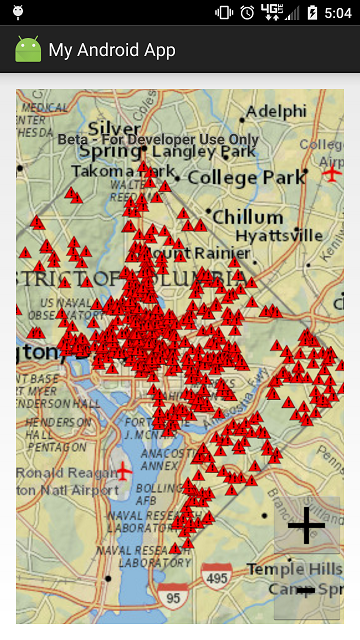
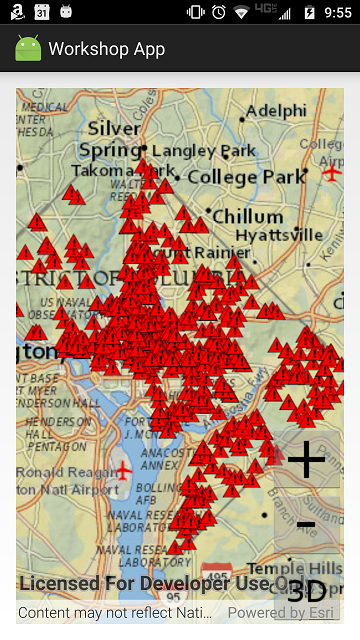
Added 3D to Android Exercise 3

diff --git a/runtime-workshop/solutions/Android/Ex3_LocFeatLyr/app/src/main/java/com/esri/wdc/geodev/MainActivity.java b/runtime-workshop/solutions/Android/Ex3_LocFeatLyr/app/src/main/java/com/esri/wdc/geodev/MainActivity.java
@@ -4,15 +4,33 @@ import android.app.Activity;
 import android.os.Bundle;
 import android.os.Environment;
 import android.view.View;
+import android.view.ViewGroup;
+import android.widget.ImageButton;
+import android.widget.LinearLayout;
 
+import com.esri.arcgisruntime.geometry.Geometry;
+import com.esri.arcgisruntime.geometry.Point;
+import com.esri.arcgisruntime.layers.Layer;
 import com.esri.arcgisruntime.mapping.ArcGISMap;
+import com.esri.arcgisruntime.mapping.ArcGISScene;
+import com.esri.arcgisruntime.mapping.ArcGISTiledElevationSource;
 import com.esri.arcgisruntime.mapping.Basemap;
 import com.esri.arcgisruntime.mapping.MobileMapPackage;
+import com.esri.arcgisruntime.mapping.Viewpoint;
+import com.esri.arcgisruntime.mapping.view.Camera;
 import com.esri.arcgisruntime.mapping.view.MapView;
+import com.esri.arcgisruntime.mapping.view.SceneView;
 
+import java.util.ArrayList;
 import java.util.List;
+import java.util.logging.Level;
+import java.util.logging.Logger;
 
 public class MainActivity extends Activity {
+
+    // Exercise 1: Specify elevation service URL
+    private static final String ELEVATION_IMAGE_SERVICE =
+            "http://elevation3d.arcgis.com/arcgis/rest/services/WorldElevation3D/Terrain3D/ImageServer";
 
     // Exercise 3: Instantiate mobile map package (MMPK) path
     private static final String MMPK_PATH = Environment.getExternalStorageDirectory().getPath() + "/data/DC_Crime_Data.mmpk";
@@ -20,13 +38,17 @@ public class MainActivity extends Activity {
     // Exercise 1: Declare and instantiate fields
     private MapView mapView = null;
     private ArcGISMap map = new ArcGISMap();
+    private SceneView sceneView = null;
+    private ArcGISScene scene = new ArcGISScene();
+    private ImageButton imageButton_toggle2d3d = null;
+    private boolean threeD = false;
 
     @Override
     protected void onCreate(Bundle savedInstanceState) {
         super.onCreate(savedInstanceState);
         setContentView(R.layout.activity_main);
 
-        // Exercise 1: Set up the map
+        // Exercise 1: Set up the 2D map.
         mapView = (MapView) findViewById(R.id.mapView);
         map.setBasemap(Basemap.createNationalGeographic());
         mapView.setMap(map);
@@ -40,11 +62,60 @@ public class MainActivity extends Activity {
                 if (0 < maps.size()) {
                     map = maps.get(0);
                     mapView.setMap(map);
+                    map.addDoneLoadingListener(new Runnable() {
+                        @Override
+                        public void run() {
+                            Viewpoint viewpoint = map.getInitialViewpoint();
+                            if (null != viewpoint) {
+                                mapView.setViewpointAsync(viewpoint);
+                            }
+                        }
+                    });
                 }
                 map.setBasemap(Basemap.createNationalGeographic());
             }
         });
         mmpk.loadAsync();
+
+        // Exercise 1: Set up the 3D scene.
+        sceneView = findViewById(R.id.sceneView);
+        scene.setBasemap(Basemap.createImagery());
+        sceneView.setScene(scene);
+        scene.getBaseSurface().getElevationSources().add(new ArcGISTiledElevationSource(ELEVATION_IMAGE_SERVICE));
+
+        // Exercise 3: Open mobile map package and add its layers to the 3D scene.
+        scene.addDoneLoadingListener(new Runnable() {
+            @Override
+            public void run() {
+                final MobileMapPackage mmpk = new MobileMapPackage(MMPK_PATH);
+                mmpk.addDoneLoadingListener(new Runnable() {
+                    @Override
+                    public void run() {
+                        List<ArcGISMap> maps = mmpk.getMaps();
+                        if (0 < maps.size()) {
+                            final ArcGISMap thisMap = maps.get(0);
+                            thisMap.addDoneLoadingListener(new Runnable() {
+                                @Override
+                                public void run() {
+                                    ArrayList<Layer> layers = new ArrayList<>();
+                                    layers.addAll(thisMap.getOperationalLayers());
+                                    thisMap.getOperationalLayers().clear();
+                                    scene.getOperationalLayers().addAll(layers);
+                                    sceneView.setViewpoint(thisMap.getInitialViewpoint());
+                                    Viewpoint viewpoint = sceneView.getCurrentViewpoint(Viewpoint.Type.CENTER_AND_SCALE);
+                                    Point targetPoint = (Point) viewpoint.getTargetGeometry();
+                                    Camera camera = sceneView.getCurrentViewpointCamera()
+                                            .rotateAround(targetPoint, 45.0, 65.0, 0.0);
+                                    sceneView.setViewpointCameraAsync(camera);
+                                }
+                            });
+                            thisMap.loadAsync();
+                        }
+                    }
+                });
+                mmpk.loadAsync();
+            }
+        });
     }
 
     /**
@@ -53,6 +124,7 @@ public class MainActivity extends Activity {
     @Override
     protected void onResume() {
         mapView.resume();
+        sceneView.resume();
         super.onResume();
     }
 
@@ -62,6 +134,7 @@ public class MainActivity extends Activity {
     @Override
     protected void onPause() {
         mapView.pause();
+        sceneView.pause();
         super.onPause();
     }
 
@@ -71,15 +144,32 @@ public class MainActivity extends Activity {
     @Override
     protected void onDestroy() {
         mapView.dispose();
+        sceneView.dispose();
         super.onDestroy();
     }
 
     /**
-     * Exercise 2: Listener for zoom out button.
-     * @param view The button.
+     * Exercise 1: Toggle between 2D map and 3D scene.
      */
-    public void imageButton_zoomOut_onClick(View view) {
-        zoom(0.5);
+    public void imageButton_toggle2d3d_onClick(View view) {
+        threeD = !threeD;
+        setWeight(mapView, threeD ? 1f : 0f);
+        setWeight(sceneView, threeD ? 0f : 1f);
+        if (null == imageButton_toggle2d3d) {
+            imageButton_toggle2d3d = findViewById(R.id.imageButton_toggle2d3d);
+        }
+        imageButton_toggle2d3d.setImageResource(threeD ? R.drawable.two_d : R.drawable.three_d);
+    }
+
+    /**
+     * Exercise 1: Set the weight of a View, e.g. to show or hide it.
+     */
+    private void setWeight(View view, float weight) {
+        final ViewGroup.LayoutParams params = view.getLayoutParams();
+        if (params instanceof LinearLayout.LayoutParams) {
+            ((LinearLayout.LayoutParams) params).weight = weight;
+        }
+        view.setLayoutParams(params);
     }
 
     /**
@@ -91,11 +181,47 @@ public class MainActivity extends Activity {
     }
 
     /**
+     * Exercise 2: Listener for zoom out button.
+     * @param view The button.
+     */
+    public void imageButton_zoomOut_onClick(View view) {
+        zoom(0.5);
+    }
+
+    /**
+     * Exercise 2: Zoom the 2D map.
+     */
+    private void zoomMap(double factor) {
+        mapView.setViewpointScaleAsync(mapView.getMapScale() / factor);
+    }
+
+    /**
+     * Exercise 2: Zoom the 3D scene.
+     */
+    private void zoomScene(double factor) {
+        Geometry target = sceneView.getCurrentViewpoint(Viewpoint.Type.CENTER_AND_SCALE).getTargetGeometry();
+        if (target instanceof Point) {
+            Camera camera = sceneView.getCurrentViewpointCamera()
+                    .zoomToward((Point) target, factor);
+            sceneView.setViewpointCameraAsync(camera, 0.5f);
+        } else {
+            // This shouldn't happen, but in case it does...
+            Logger.getLogger(MainActivity.class.getName()).log(Level.WARNING,
+                    "SceneView.getCurrentViewpoint returned {0} instead of {1}",
+                    new String[] { target.getClass().getName(), Point.class.getName() });
+        }
+    }
+
+    /**
      * Exercise 2: Zoom by a factor.
      * @param factor The zoom factor (0 to 1 to zoom out, > 1 to zoom in).
      */
     private void zoom(double factor) {
-        mapView.setViewpointScaleAsync(mapView.getMapScale() / factor);
+        if (threeD) {
+            zoomScene(factor);
+        } else {
+            zoomMap(factor);
+        }
     }
 
 }

diff --git a/runtime-workshop/exercises/Android/Exercise 3 Local Feature Layer.md b/runtime-workshop/exercises/Android/Exercise 3 Local Feature Layer.md
@@ -1,11 +1,15 @@
 # Exercise 3: Add a Local Feature Layer (Android)
 
-This exercise walks you through adding a layer from a mobile map package to the map.
+This exercise walks you through the following:
+- Add a layer from a mobile map package to the 2D map
+- Add a layer from a mobile map package to the 3D scene
 
 Prerequisites:
 - Complete [Exercise 2](Exercise%202%20Zoom%20Buttons.md), or get the Exercise 2 code solution compiling and running properly, preferably in an IDE.
 
 If you need some help, you can refer to [the solution to this exercise](../../solutions/Android/Ex3_LocFeatLyr), available in this repository.
+
+## Add a layer from a mobile map package to the 2D map
 
 ArcGIS Runtime provides a variety of ways to add **operational layers** to the map--feature services, dynamic map services, offline geodatabases, and mobile map packages, for example. In this exercise, you will use the newest of these: a mobile map package.
 
@@ -49,11 +53,95 @@ ArcGIS Runtime provides a variety of ways to add **operational layers** to the m
     }
     map.setBasemap(Basemap.createNationalGeographic());
     ```
-    
+
+1. After `mapView.setMap(map)`, add a listener to run when the `Map` is done loading. In that listener, zoom the `MapView` to the `Map`'s initial viewpoint:
+
+    ```
+    map.addDoneLoadingListener(new Runnable() {
+        @Override
+        public void run() {
+            Viewpoint viewpoint = map.getInitialViewpoint();
+            if (null != viewpoint) {
+                mapView.setViewpointAsync(viewpoint);
+            }
+        }
+    });
+    ```
+
 1. Run your app. Verify that the map zooms to Washington, D.C., and that a layer of crime incidents appears on top of the basemap. The incidents appear as red triangles, which is the symbology specified in the mobile map package:
 
     ![Mobile map package layer](05-mmpk-layer.png)
     
+## Add a layer from a mobile map package to the 3D scene
+
+A layer can only reside in one map or scene at a time. Therefore, to add layers to the 3D scene, you will have to open the mobile map package again. That will give you a `Map` as before, which you can't use with a `SceneView`--and there is no "`MobileScenePackage`"--so you will have to get the layers from this `Map` and add them to your existing `Scene`.
+
+1. In `onCreate(Bundle)`, after you get the `SceneView` and instantiate your `ArcGISScene` and set its basemap and surface, add an event handler for when the scene is done loading:
+
+    ```
+    scene.addDoneLoadingListener(new Runnable() {
+        @Override
+        public void run() {
+            
+        }
+    });
+    ```
+
+1. Inside this new event handler, load the mobile map package and listen for it to be done loading, just as you did a few steps ago for the 2D map:
+
+    ```
+    mmpk.addDoneLoadingListener(new Runnable() {
+        @Override
+        public void run() {
+            
+        }
+    });
+    mmpk.loadAsync();
+    ```
+
+1. Get the first `Map` in the `MobileMapPackage`, as you did before for the 2D map. However, you cannot add a `Map` to a `SceneView`, so you will instead add the `Map`'s layers to the `Scene`'s operational layers. But a layer can only belong to one `Map` or `Scene` at a time, so you must load the map, make a list of the layers, clear the `Map`'s layer list (bonus: see what happens if you don't!), and only then add the list of layers to the scene. Here is the code for adding the MMPK's layers to your `Scene`. Put this code in the done loading listener you created in the previous step:
+
+    ```
+    List<ArcGISMap> maps = mmpk.getMaps();
+    if (0 < maps.size()) {
+        final ArcGISMap thisMap = maps.get(0);
+        thisMap.addDoneLoadingListener(new Runnable() {
+            @Override
+            public void run() {
+                ArrayList<Layer> layers = new ArrayList<>();
+                layers.addAll(thisMap.getOperationalLayers());
+                thisMap.getOperationalLayers().clear();
+                scene.getOperationalLayers().addAll(layers);
+            }
+        });
+        thisMap.loadAsync();
+    }
+    ```
+
+1. After adding the layers to the scene (inside the `run()` method from the previous step), zoom to the layer you added by giving your `SceneView` the MMPK map's `Viewpoint`:
+
+    ```
+    sceneView.setViewpoint(thisMap.getInitialViewpoint());
+    ```
+    
+1. Compile and run your app. Verify that when you switch to 3D, the scene displays Washington, D.C., with the red triangles representing crime incidents:
+
+    ![Mobile map package layer on a 3D scene](06-mmpk-layer-scene.jpg)
+
+1. Remember in [Exercise 2](Exercise%202%20Zoom%20Buttons.md#zoom-in-and-out-on-the-map-and-the-scene) when you manipulated a `Camera` to zoom in and out? Here we will also use a `Camera`, but this time we will rotate the camera to provide an oblique view of the scene. We will focus the rotation on the current viewpoint's target point. The `Camera.rotateAround` method lets us specify a change in heading, pitch, and roll; let's change the heading by 45 degrees and the pitch by 65 degrees. After `rotateAround`, we will give the rotated `Camera` to the `SceneView`. Here is the code to insert immediately after the previous step (still inside the inner `run()` method):
+
+    ```
+    Viewpoint viewpoint = sceneView.getCurrentViewpoint(Viewpoint.Type.CENTER_AND_SCALE);
+    Point targetPoint = (Point) viewpoint.getTargetGeometry();
+    Camera camera = sceneView.getCurrentViewpointCamera()
+            .rotateAround(targetPoint, 45.0, 65.0, 0.0);
+    sceneView.setViewpointCameraAsync(camera);
+    ```
+
+1. Compile and run your app. Verify that when you switch to 3D, the crime incidents display and the view is rotated and pitched. Also try the built-in 3D navigation by doing a two-finger drag up and down on the scene:
+
+    ![3D scene pitched and rotated](07-mmpk-layer-scene-rotated.jpg)
+
 ## How did it go?
 
 If you have trouble, **refer to the solution code**, which is linked near the beginning of this exercise. You can also **submit an issue** in this repo to ask a question or report a problem. If you are participating live with Esri presenters, feel free to **ask a question** of the presenters.

diff --git a/runtime-workshop/exercises/Java/Exercise 3 Local Feature Layer.md b/runtime-workshop/exercises/Java/Exercise 3 Local Feature Layer.md
@@ -50,7 +50,7 @@ ArcGIS Runtime provides a variety of ways to add **operational layers** to the m
 
 A layer can only reside in one map or scene at a time. Therefore, to add layers to the 3D scene, you will have to open the mobile map package again. That will give you a `Map` as before, which you can't use with a `SceneView`--and there is no "`MobileScenePackage`"--so you will have to get the layers from this `Map` and add them to your existing `Scene`.
 
-1. In your 2D/3D toggle button event handler method, after you instantiate your `ArcGISScene` set its basemap and surface, and instantiate your `SceneView`, add an event handler for when the scene is done loading:
+1. In your 2D/3D toggle button event handler method, after you instantiate your `ArcGISScene`, set its basemap and surface, and instantiate your `SceneView`, add an event handler for when the scene is done loading:
 
     ```
     scene.addDoneLoadingListener(() -> {

diff --git a/runtime-workshop/exercises/Android/Exercise 2 Zoom Buttons.md b/runtime-workshop/exercises/Android/Exercise 2 Zoom Buttons.md
@@ -2,7 +2,7 @@
 
 This exercise walks you through the following:
 - Add zoom in and zoom out buttons to the UI
-- Zoom in and out on the map
+- Zoom in and out on the map and the scene
 
 Prerequisites:
 - Complete [Exercise 1](Exercise%201%20Map.md), or get the Exercise 1 code solution compiling and running properly, preferably in an IDE.
